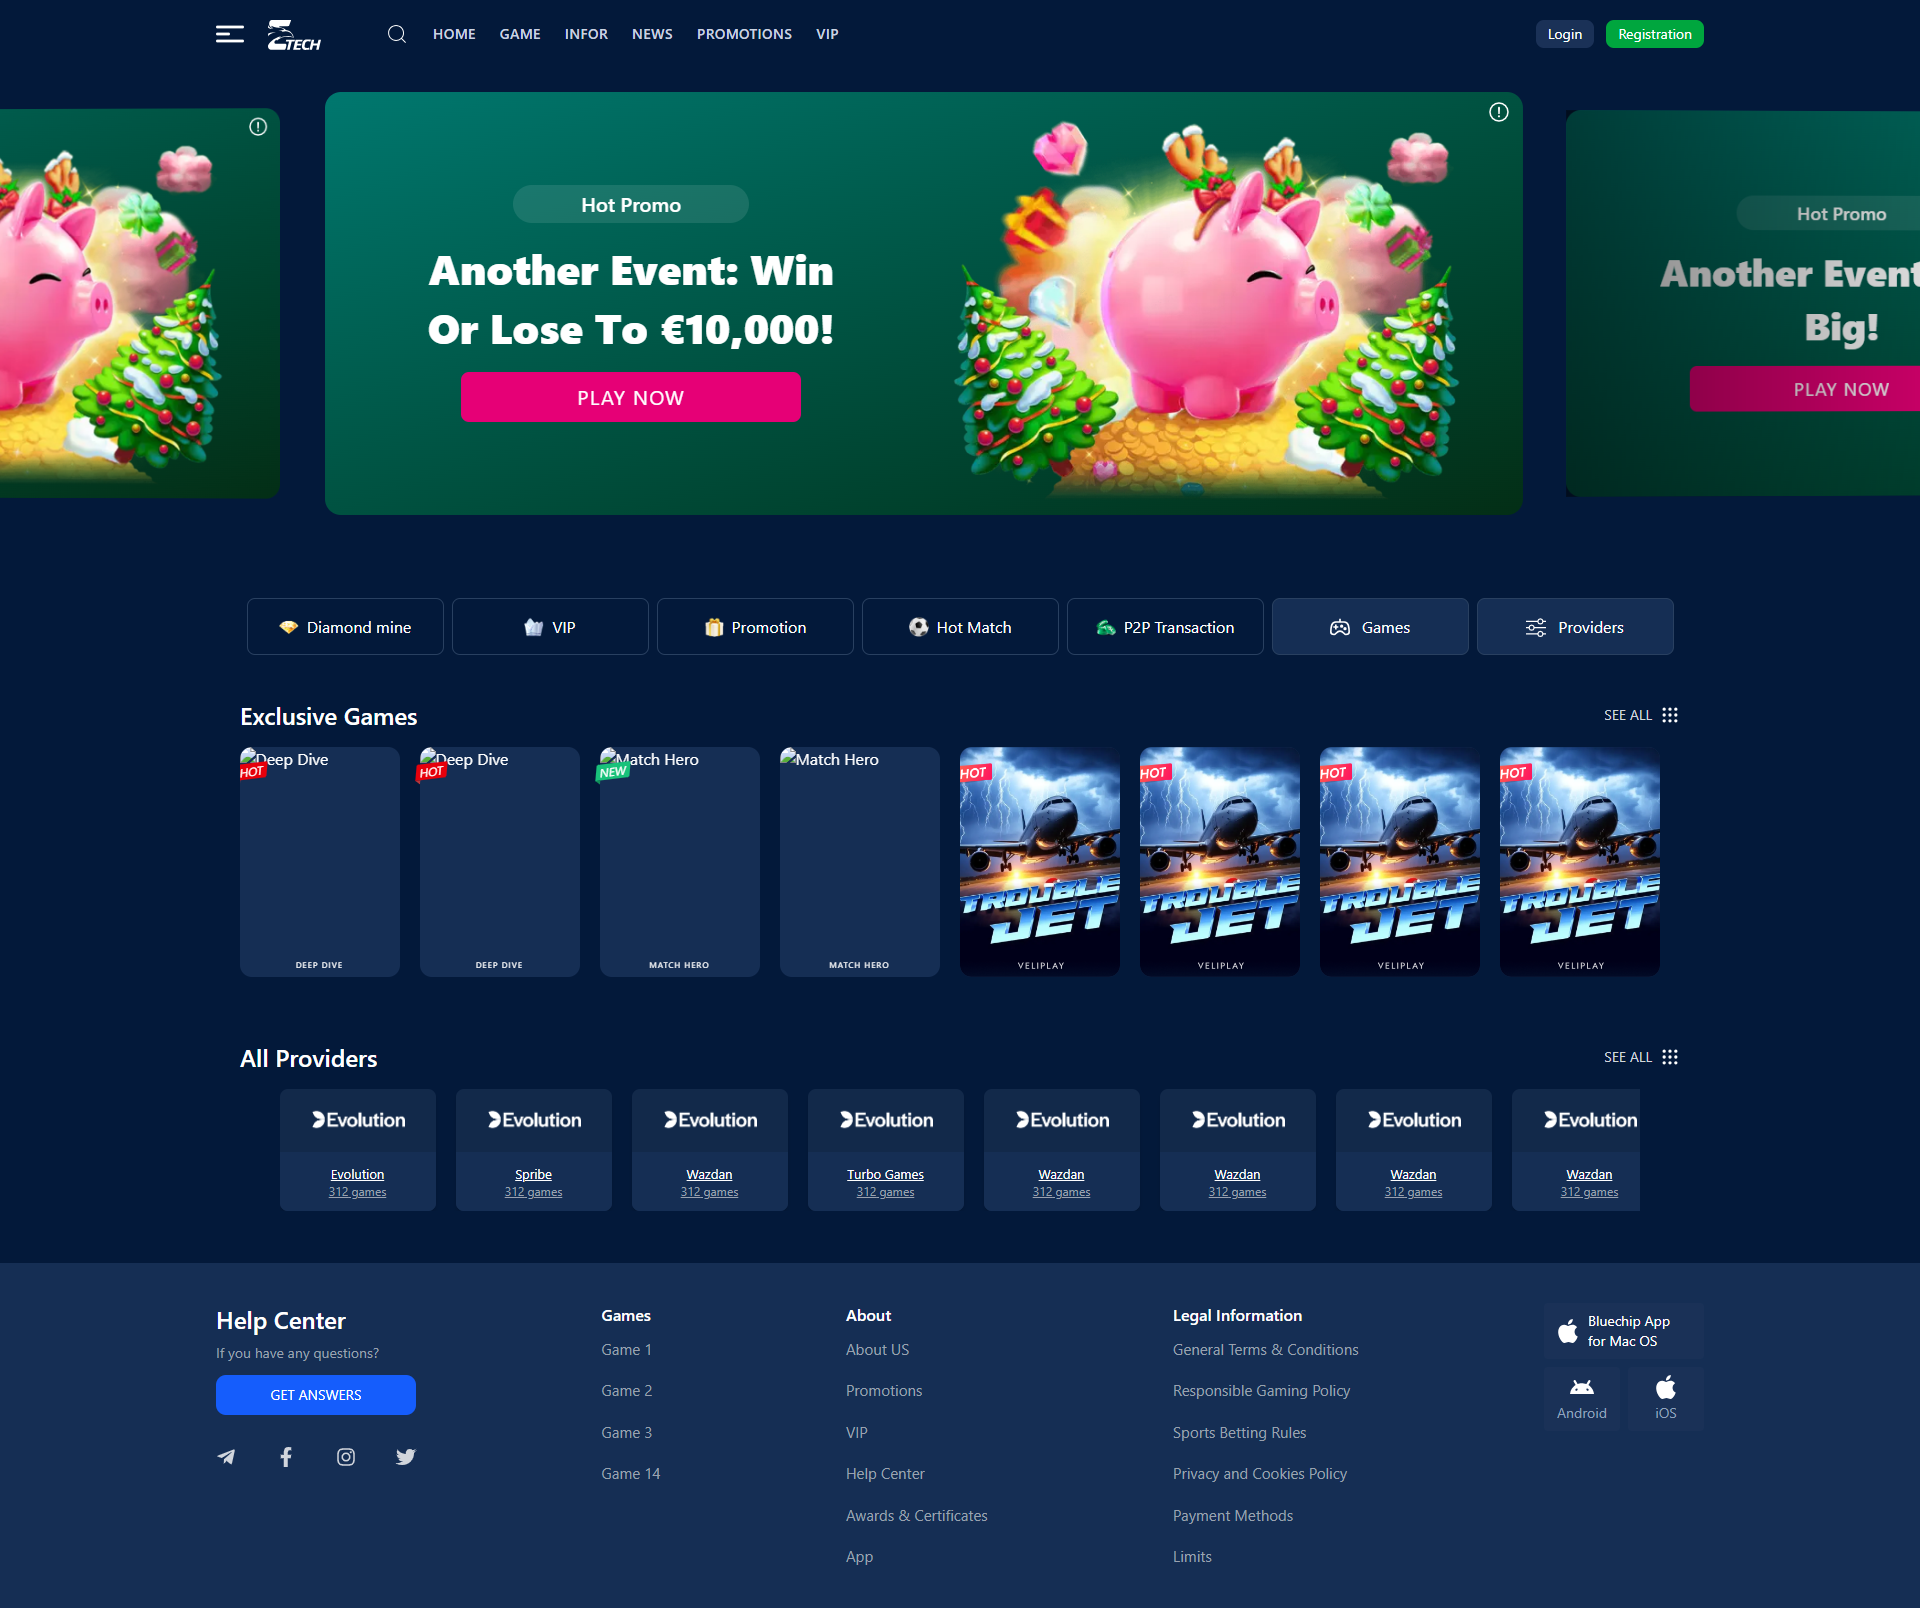
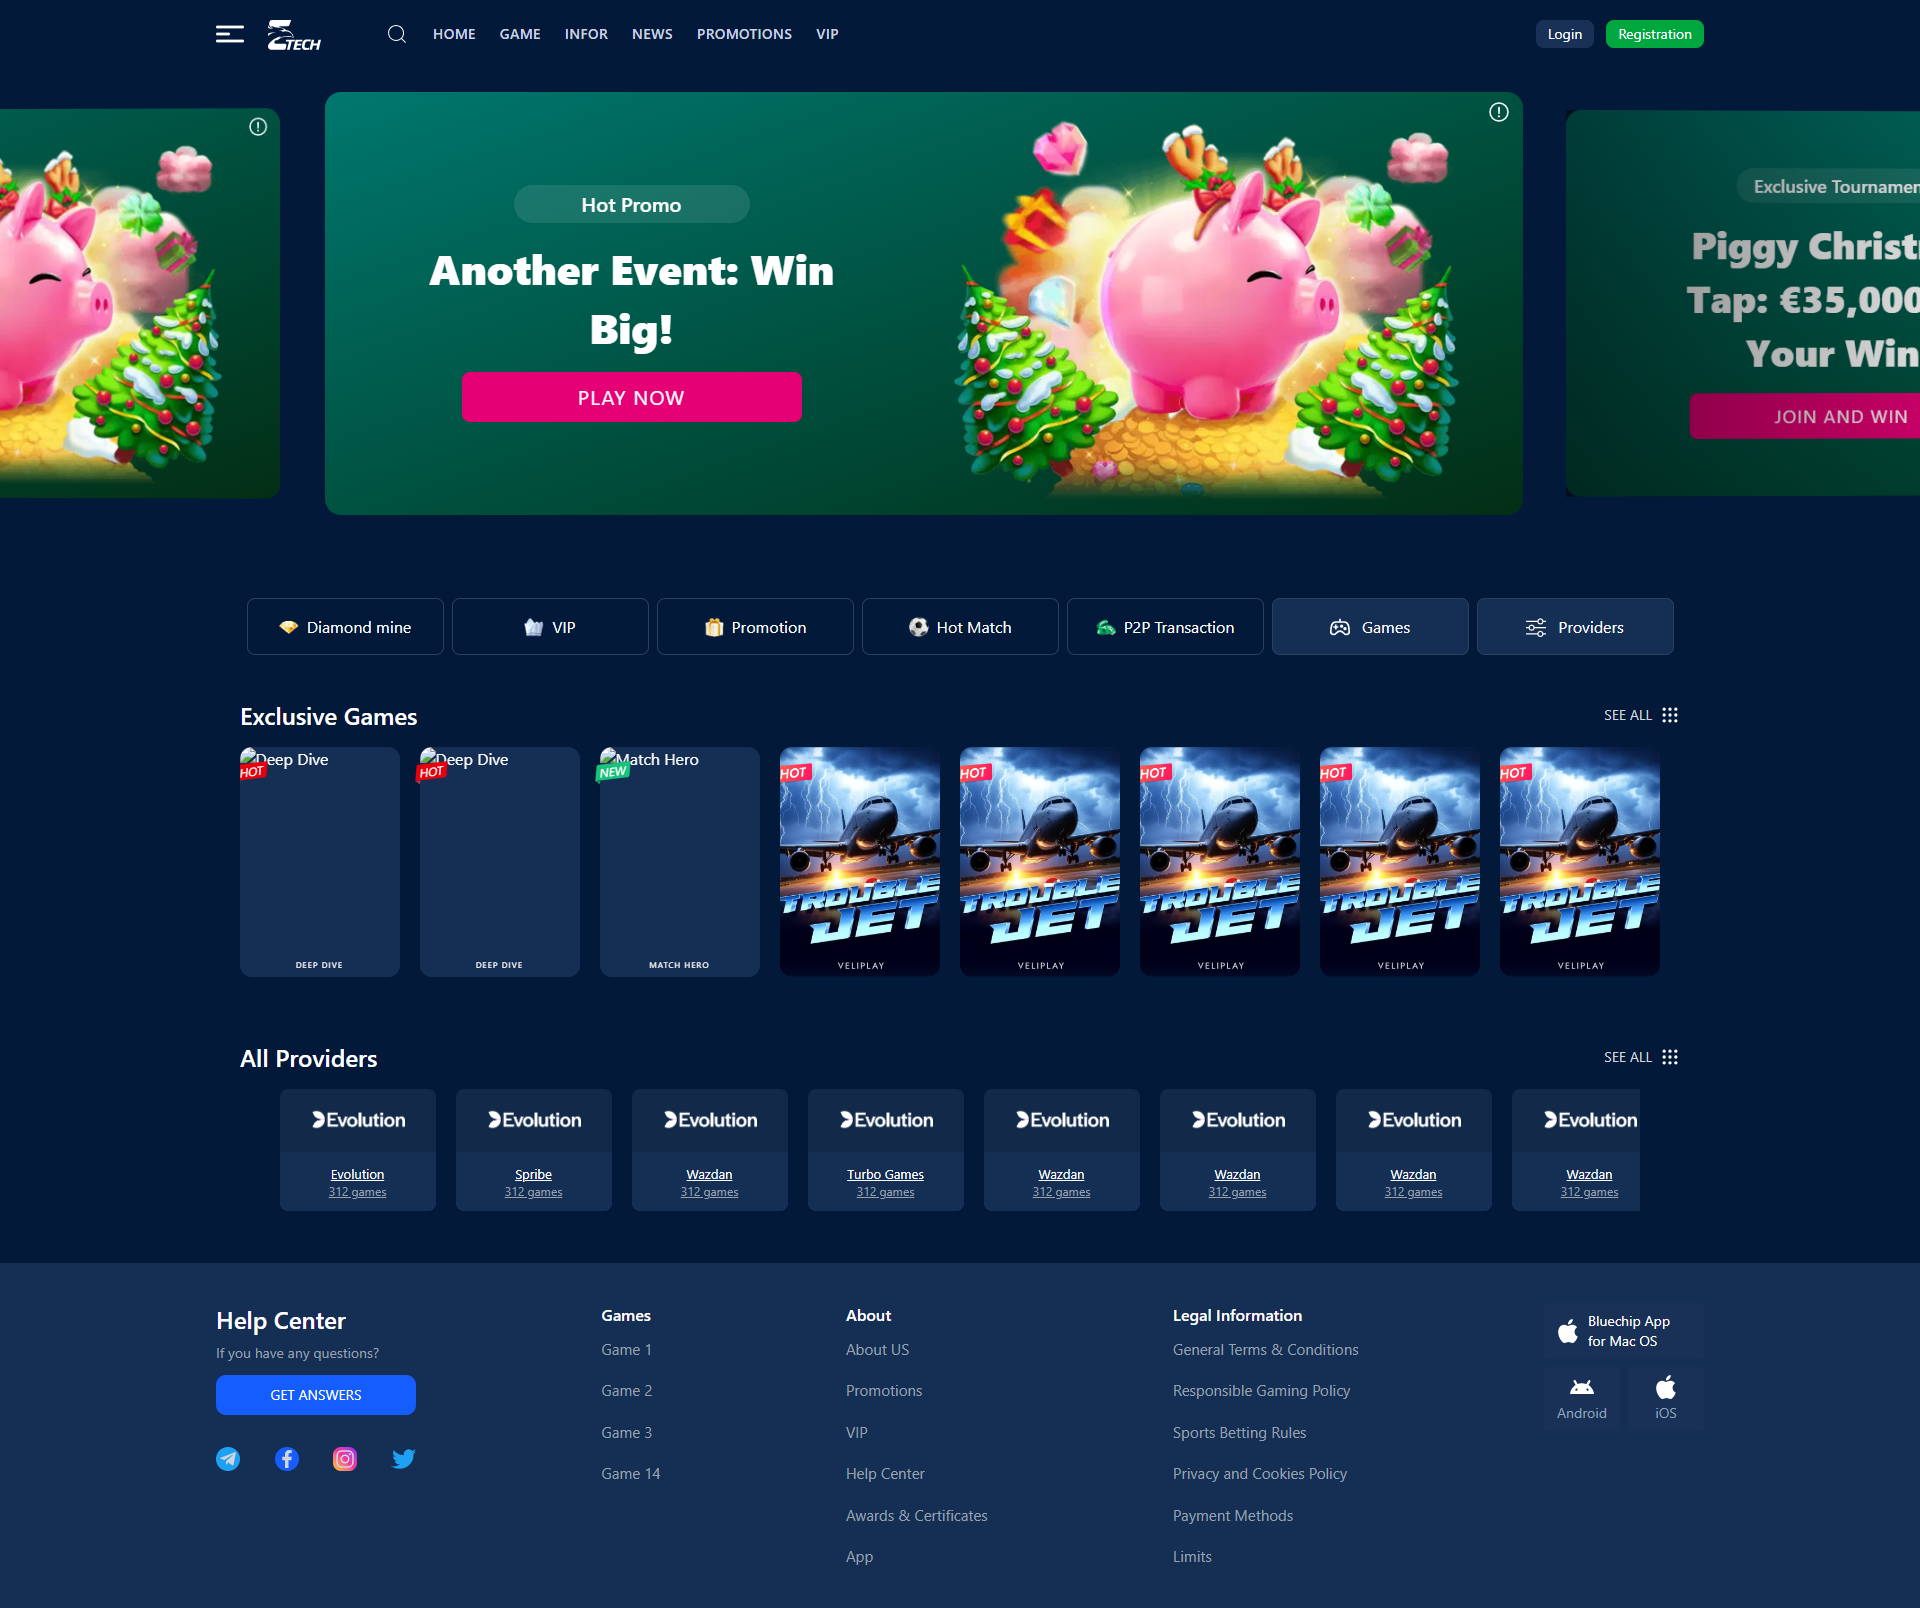
done

diff --git a/src/pages/Home/ExclusiveGames/index.tsx b/src/pages/Home/ExclusiveGames/index.tsx
@@ -1,29 +1,22 @@
 import { Swiper, SwiperSlide } from "swiper/react";
 import { GameSection } from "components/GameSection";
-import { GameCard, GameCardProps } from "components/Card/Card";
-import { IMAGES } from "assets";
-
-const games: GameCardProps[] = [
-  { title: "Deep Dive", image: "", tag: "HOT" },
-  { title: "Deep Dive", image: "", tag: "HOT" },
-  { title: "Match Hero", image: "", tag: "NEW" },
-  { title: "Match Hero", image: "" },
-  { title: "", image: IMAGES.game },
-  { title: "", image: IMAGES.game },
-  { title: "", image: IMAGES.game },
-  { title: "", image: IMAGES.game },
-  { title: "", image: IMAGES.game },
-  { title: "", image: IMAGES.game },
-  { title: "", image: IMAGES.game },
-  { title: "", image: IMAGES.game },
-];
+import { GameCard } from "components/Card/Card";
+import { useEffect, useState } from "react";
+import { IGame } from "services/game/game.interface";
+import { gameService } from "services/game/game.service";
 
 export const ExclusiveGames = () => {
+  const [games, setGames] = useState<IGame[]>([]);
+
+  useEffect(() => {
+    gameService.getMany().then(setGames);
+  }, []);
+
   return (
     <GameSection title="Exclusive Games" seeAllLink="/exclusive">
       <Swiper spaceBetween={20} slidesPerView={"auto"}>
-        {games.map((game, index) => (
-          <SwiperSlide key={index} style={{ width: 160 }}>
+        {games.map((game) => (
+          <SwiperSlide key={game.id} style={{ width: 160 }}>
             <GameCard {...game} />
           </SwiperSlide>
         ))}

diff --git a/src/components/Card/Card.tsx b/src/components/Card/Card.tsx
@@ -1,13 +1,20 @@
+import { IGame } from "services/game/game.interface";
 import "./Card.css";
-export interface GameCardProps {
-  title: string;
-  tag?: "HOT" | "NEW";
-  image: string;
-}
+import { useNavigate } from "react-router-dom";
 
-export const GameCard = ({ title, tag, image }: GameCardProps) => {
+export const GameCard = ({ title, tag, image, id }: Partial<IGame>) => {
+  const navigator = useNavigate();
+
+  const handleClick = (id?: number) => {
+    if (!id) return;
+    navigator(`/game/${id}`);
+  };
+
   return (
-    <div className="card relative bg-primary-100 text-white rounded-xl w-[160px] h-[230px]">
+    <div
+      onClick={() => handleClick(id)}
+      className="card relative bg-primary-100 text-white rounded-xl w-[160px] h-[230px] cursor-pointer"
+    >
       <img
         src={image}
         alt={title}

diff --git a/src/services/game.hook.tsx b/src/services/game.hook.tsx
@@ -1,0 +1,12 @@
+import { useEffect, useState } from "react";
+import { IGame } from "./game/game.interface";
+import { gameService } from "./game/game.service";
+
+export function useGame() {
+  const [data, setData] = useState<IGame[]>([]);
+
+  useEffect(() => {
+    gameService.getMany().then(setData);
+  }, []);
+  return { data };
+}

diff --git a/src/services/game/game.service.ts b/src/services/game/game.service.ts
@@ -1,0 +1,15 @@
+import { IGame } from "./game.interface";
+
+let cacheData: IGame[];
+
+async function getMany() {
+  if (cacheData === undefined) {
+    const data = await fetch("./data/games.json").then((t) => t.json());
+    cacheData = data;
+  }
+  return cacheData;
+}
+
+export const gameService = {
+  getMany,
+};

diff --git a/src/services/game/game.interface.ts b/src/services/game/game.interface.ts
@@ -1,0 +1,12 @@
+export interface IGame {
+  id: number;
+  description: string;
+  title: string;
+  tag: TagEnum;
+  image: string;
+}
+
+export enum TagEnum {
+  HOT = "HOT",
+  NEW = "NEW",
+}
